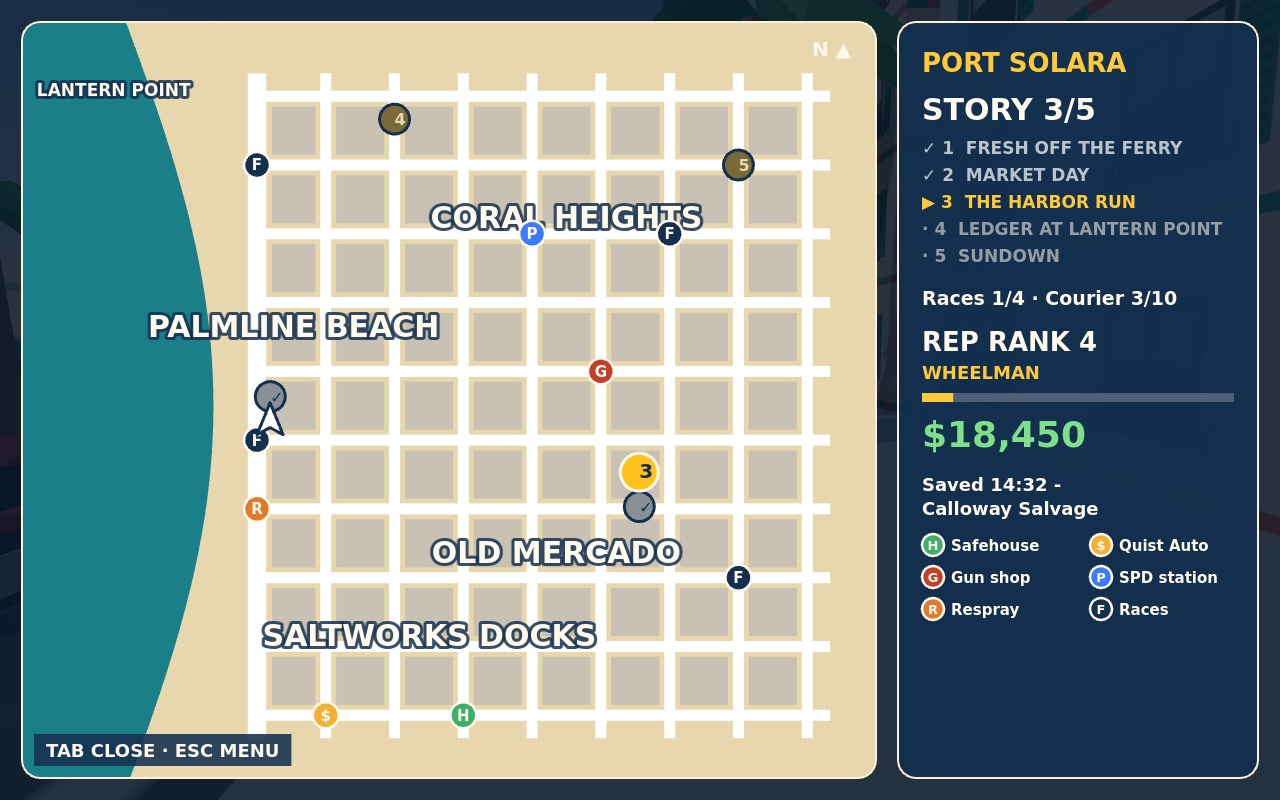
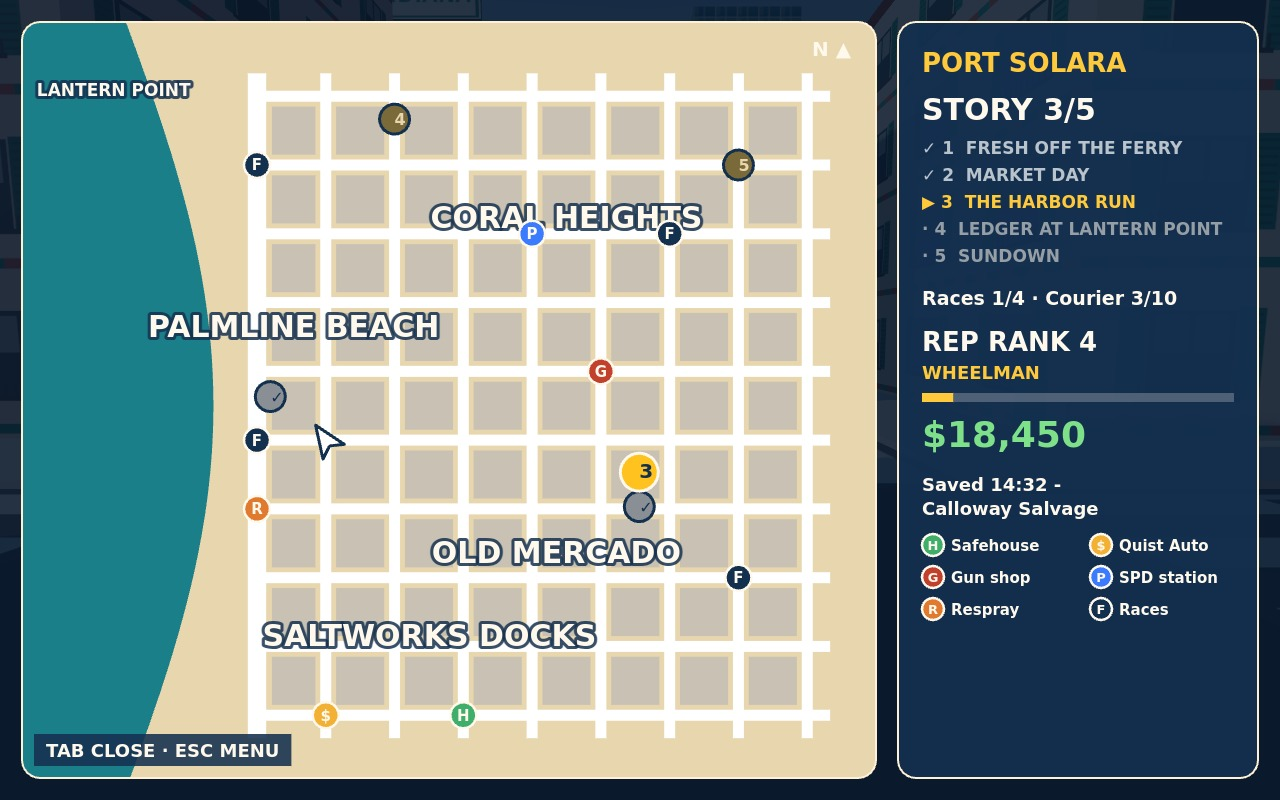
M5 step 6: map shot moves Wren inland so her arrow clears ring 1 and a race flag (3-map.jpg 168.1 KiB); self-test SELFTEST PASS 23/23 (perf HIGH 168 draw calls / 42,235 tris, LOW 110 / 26,135), originality PASS (32 files), main.ts twice byte-identical (40 files, dossier 1,135,730 bytes), judge sheet

diff --git a/game/src/dev/screenshot-scenes.js b/game/src/dev/screenshot-scenes.js
@@ -143,6 +143,9 @@ export const SCENES = {
     hold([], 300);
     game.startPlay();
     seedShotSave(game);
+    // Wren on a crossing inland of Palmline, clear of ring 1 and the race flag at her start.
+    const n = game.roads.nodes.reduce((b, p) => (Math.hypot(p.x + 90, p.z - 20) < Math.hypot(b.x + 90, b.z - 20) ? p : b));
+    game.player.x = n.x; game.player.z = n.z; game.player.facing = 0.6;
     hold([], 60);
     game.openPause('map');
   },

diff --git a/NOTES.md b/NOTES.md
@@ -1,5 +1,57 @@
 # PORT SOLARA build notes
 
+## M5 Shell and depth: done (steps 3-6 in the run of 2026-11-18 23:05-23:44 EET)
+- Step 3 settings (core/save-slots.js `DEFAULT_SETTINGS`, `GRAPHICS_PRESETS`, `applySettings`):
+  master, music/radio and effects volume 0-10, mouse sensitivity 0.5-2.0x, graphics HIGH (1024
+  shadow map, far 480 m, fog to 420 m) or LOW (no shadows, far 300 m, fog to 260 m; the sky dome
+  and sun disc shrink with the far plane). Own localStorage key `port-solara/settings`, also copied
+  into every save and put back on load; NEW GAME keeps them. Pause SETTINGS view (arrows or
+  clicks, left/right halves) and a title SETTINGS panel (click a row to raise it). Audio has an
+  output bus: radio on the music level, engine/tyres/siren/guns on the effects level.
+- Step 4 missions/side-activities.js `SIDE_ACTIVITIES` + `SideActivities`, all on [E] at the map's
+  places with a prompt over each: four ring-road races from the F flags (loops of real crossings,
+  gold checkpoint marker, timer, best time in the save, first win $1,500 / 40 REP, a par run later
+  pays a third); courier drops for Mara from Quist Auto on foot (seeded drop 120-260 m out, 80 s,
+  $600 / 25 REP, Courier n/10); stolen-car sales at Quist Auto by kind and damage (Albacore $9,000
+  ... Pipit $1,100; +25% from rank 4; SPD cars refused); Brass & Barrel ammo ($200 for two clips)
+  and the Hornet ($2,500, locked until rank 3 or mission 4's hand-out; `PlayerWeapons.locked` is in
+  the save); Pelican Fuel respray ($500, clears WANTED and stands the SPD down, refused while a unit
+  sees the car). Banner and GPS follow the running activity. Radio was already done in M3b.
+- Step 5 tests and shots. New tests: save (safehouse save, reload, the title's first item reads
+  "CONTINUE - Story 3/5 - $18,450", load gives back cash, REP, story, races, courier, best lap,
+  weapon slot, unlocked Hornet and the spot), settings (persist over a reload; LOW really drops
+  shadows and the far plane), race (Coral Circuit through 4 checkpoints by test teleports, paid
+  $1,500, Races 1/4), respray (WANTED 2 unseen -> 0, $500), perf now on a fresh boot at HIGH and LOW.
+  `SHOT_SAVE` in dev/screenshot-scenes.js is the one save state of all four shots: missions 1-2 done,
+  REP 640 (rank 4 WHEELMAN), $18,450, Races 1/4 (North Ring 0:52.4), Courier 3/10, saved 14:32 at
+  Calloway Salvage. 3-map.jpg is the live Tab map on it (Wren moved inland so her arrow clears ring 1
+  and a race flag); 4-title.jpg writes it into slot 2 as a real record and re-shows the title, so
+  CONTINUE is read back from storage. Title strip shortened (it ran off the right edge).
+
+## Self-test after M5 (SwiftShader, 1280x800): SELFTEST PASS, 23/23
+- save, settings, race, respray PASS (above). perf on a fresh boot: HIGH 168 draw calls / 42,235
+  triangles / median 2.6-5.6 ms / heap 40-43 MB; LOW 110 draw calls / 26,135 triangles / median
+  0.8-0.9 ms (two runs).
+  (The old perf view after every test read 195; it now reloads first, so the numbers moved.)
+- Originality PASS (32 files). main.ts twice: 40 output files byte-identical, dossier 1,135,730
+  bytes (under 1.4 MiB). game/ 2.4 MB.
+- Shots: 1-chase.jpg 183.4 KiB (q80), 2-street.jpg 179.6 KiB (q88), 3-map.jpg 168.1 KiB (q92),
+  4-title.jpg 177.7 KiB (q72). Judge sheet rebuilt: at 50% it reads car chase, police, wanted,
+  minimap, mission, on foot, combat, map and title. Cover and street are the M4 stagings on the
+  shared save (the weapon row now says REP 4 · WHEELMAN).
+
+## Next (M6 Polish and freeze)
+- Handling, camera, effects, audio mix, perf (draw calls), A/B on judge sheets, README (controls,
+  side activities, settings). No new systems.
+
+## Bugs / debts (M5)
+- The HUD slot chips still show "3 HORNET" while it is locked (it cannot be selected; dim it).
+- Side activity results only toast (no JOB DONE-style card); courier has no package prop.
+- Races are crossing loops near each flag, not the full ring road; no rival racers.
+- The respray does not change the car's colour (merged vertex-coloured bodies).
+- Map district labels are small at 50% on the sheet; Lantern Point's label still sits over the sea.
+- The shot save's clock assumes the headless browser runs in UTC (it does here).
+
 ## M5 steps 1-2 Pause, map, saves: done (short run of 2026-11-18 22:28-22:48 EET)
 - Step 1 ui/menus-and-map.js `installPauseAndMap`: Esc (or P) pauses with RESUME, MAP, SETTINGS,
   SAVE, QUIT TO TITLE (arrows + Enter or a click); Tab (or M) opens the full map. Pausing freezes
